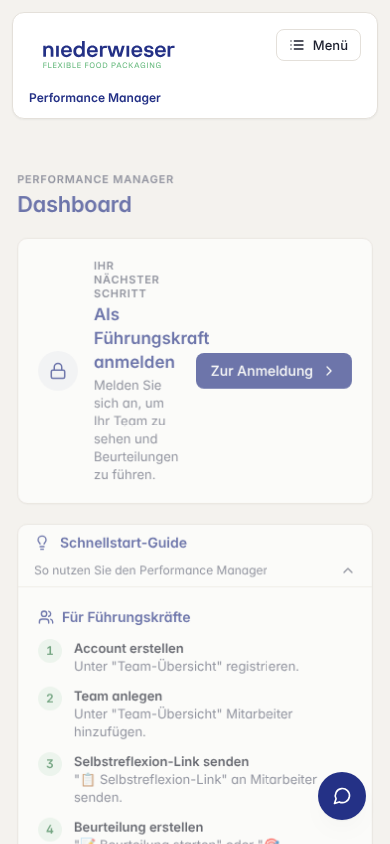
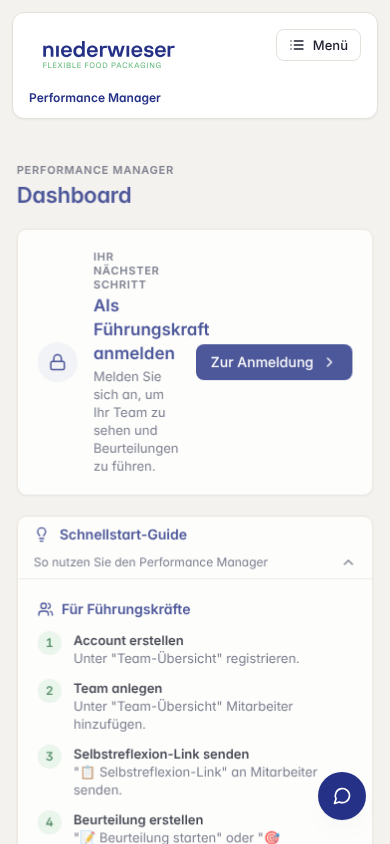
Tests: Erststart ohne Anleitung für Führungskraft und Mitarbeiter
Folgen nur den sichtbaren Hauptaktionen: Führungskraft vom ersten Aufruf
bis zur ersten abgeschlossenen Beurteilung, Mitarbeiter vom Link bis zur
zugeordneten Selbstreflexion. 24/24 Tests grün, Schutzbereich unverändert.

Claude-Session: https://claude.ai/code/session_01UxDpLSoZKRLBXFEJgDxfYq

diff --git a/docs/redesign/BERICHT.md b/docs/redesign/BERICHT.md
@@ -10,7 +10,7 @@ Daten, Anmeldung, Rollen, Speicherschlüssel, Links, Export-Formate und Berechnu
 
 | Prüfung | Vorher (Phase 0) | Nachher |
 |---|---|---|
-| Automatische Tests | 14 / 14 grün | **22 / 22 grün** (8 neue) |
+| Automatische Tests | 14 / 14 grün | **24 / 24 grün** (10 neue) |
 | Schutzbereich (`node tests/protected/fingerprint.mjs`) | Baseline angelegt | **unverändert** (Baseline seit Anlage nicht angefasst) |
 | Konsolenfehler in allen Abläufen | 0 | 0 |
 | WCAG 2 A/AA (axe-core) auf 6 Kernseiten | nicht gemessen | **0 Verstöße** |
@@ -90,6 +90,10 @@ Neu seit Phase 0:
 - `a11y.spec.mjs`: 4 Tests, WCAG 2 A/AA auf Dashboard, Anmeldung, Team-Übersicht, Beurteilung, HR-Dashboard und Mitarbeiter-Link.
 - `mobile.spec.mjs`: Handy-Menü, Anmeldung und Team ohne horizontalen Überlauf.
 - `screens.spec.mjs`: Dialog-Hintergrund bleibt halbtransparent (Schutz gegen versehentlich weiße Overlays).
+- `first-run.spec.mjs`: **Erststart ohne Anleitung.** Diese Tests folgen ausschließlich den sichtbaren Hauptaktionen:
+  - **Führungskraft:** erster Aufruf → Anmeldung → Registrierung → „Team anlegen“ → erster Mitarbeiter → Beurteilung
+    abgeschlossen → das Dashboard meldet „Alle Beurteilungen abgeschlossen“.
+  - **Mitarbeiter:** Link → starten → absenden. Die Selbstreflexion landet beim richtigen Mitarbeiter und bei der richtigen Führungskraft.
 - `critical.spec.mjs`:
   - Registrierung einer neuen Führungskraft (Erststart: leeres Team, Hinweis, nächster Schritt).
   - PDF-Export der Beurteilung (echte PDF-Datei; Logo und Titel geprüft).
